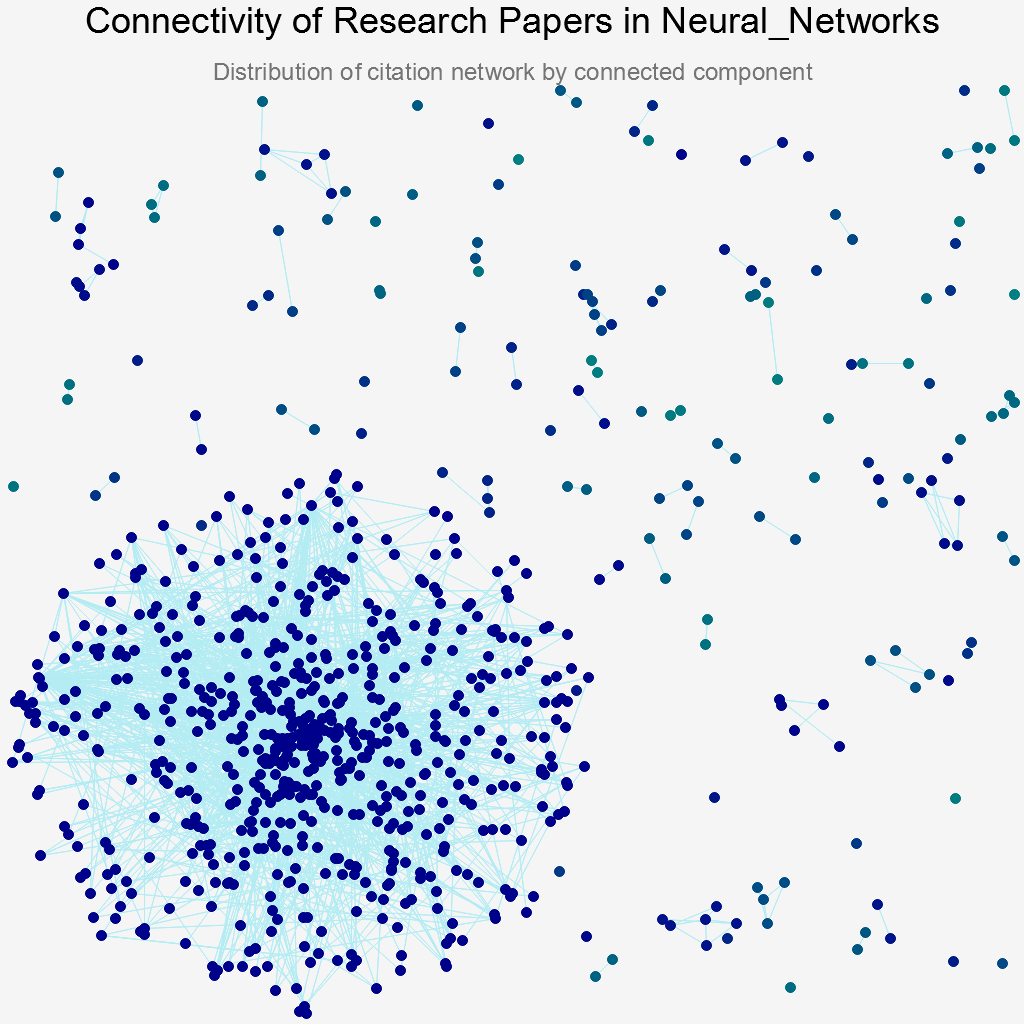
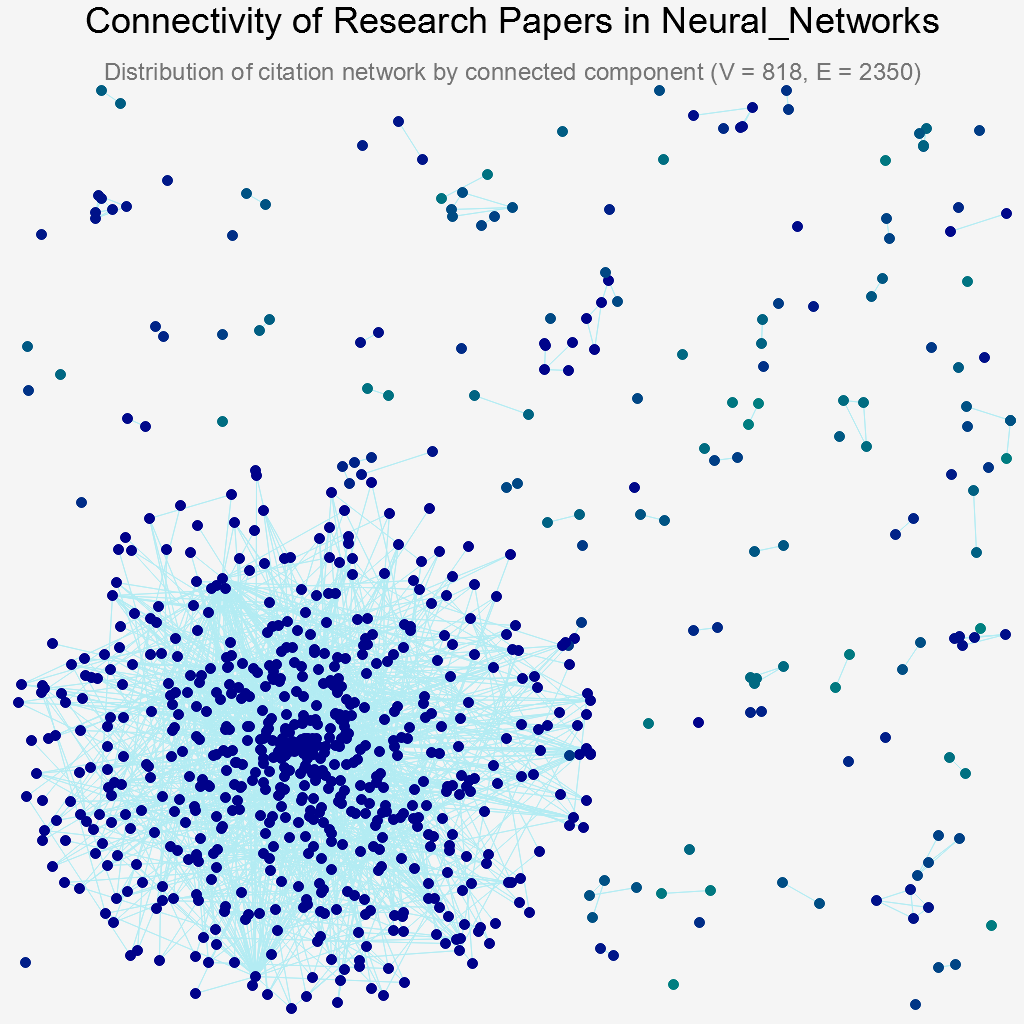
Added Number of Edges Calculation/Display

diff --git a/src/graph/mod.rs b/src/graph/mod.rs
@@ -98,7 +98,15 @@ impl Graph{
         return Ok(Graph::create_directed(node_data.len(),&edges,node_data,reverse_hash));
     }
     
-    pub fn calculate_subgraphs(self) -> Vec<(String,Self)>{
+    pub fn calc_num_edges(&self) -> usize{
+        let mut n_edges = 0;
+        for outedge in self.outedges.iter(){
+            n_edges += outedge.len();
+        }
+        return n_edges;
+    }
+
+    pub fn calculate_subgraphs(&self) -> Vec<(String,Self)>{
         //RETHINK THIS APPROACH CITATION CIRCLES WON'T WORK HERE
 
         let mut subject_graph_info = HashMap::<String, (usize, AdjacencyList, HashMap<usize, NodeData>, HashMap<usize,usize>)>::new();
@@ -168,9 +176,14 @@ impl Graph{
         let drawing_area = (-500,500,-500,500);
         let (x_min, x_max, y_min, y_max) = drawing_area;
 
+        let vertices = self.n;
+        let edges = self.calc_num_edges();
+
         let mut cc = ChartBuilder::on(&root_area)
             .margin(10)
-            .caption("Distribution of citation network by connected component", TextStyle::from(("helvetica", 30).into_font()).color(&GREY_600))
+            .caption(
+                &format!("Distribution of citation network by connected component (V = {}, E = {})",vertices,edges), 
+                TextStyle::from(("helvetica", 30).into_font()).color(&GREY_600))
             .build_cartesian_2d(x_min..x_max, y_min..y_max)?;
     
         cc.configure_mesh().disable_mesh().draw()?;
